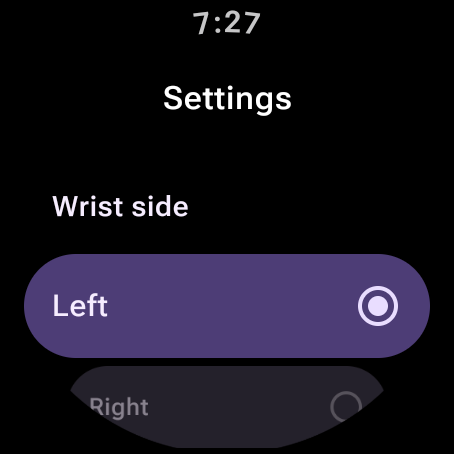
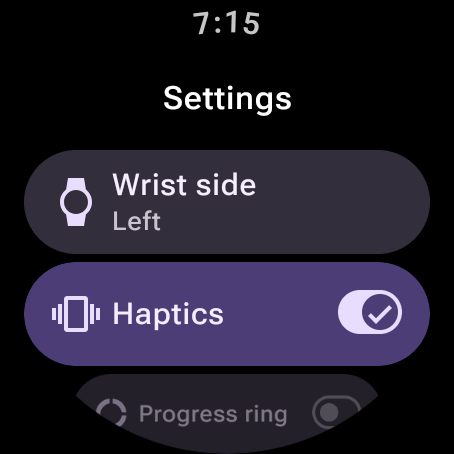
feat(ui): EdgeButton Start, one-screen Settings, Tile to match
Start is rebuilt on Wear Material 3's EdgeButton: Start wash hugs the bottom curve, as on the Tile, with the last Wash's takeaway ("Last wash · 7:15 AM / n of 5 look covered") and the History and Settings icon buttons centred above it. The list stays short so the EdgeButton shows at full size without scrolling. The pill and its press-shape constants are gone.

Settings fits on one screen: Wrist side is one row showing its value, flipped by a tap; Haptics and Progress ring gain icons; "Applies from the next wash" shows only while a Wash runs. The Tile uses Start's words and hierarchy and refreshes hourly so the time turns into a date. Settings and History can scroll their last row to the centre of the screen, like the watch's own Settings.

Screenshots retaken; the replaced ones are kept as docs/ux/old_*.png.

diff --git a/wear/src/main/java/com/hapticwash/ui/MainActivity.kt b/wear/src/main/java/com/hapticwash/ui/MainActivity.kt
@@ -18,13 +18,11 @@ import androidx.compose.animation.core.CubicBezierEasing
 import androidx.compose.animation.core.LinearEasing
 import androidx.compose.animation.core.Spring
 import androidx.compose.animation.core.animateFloatAsState
-import androidx.compose.animation.core.animateIntAsState
 import androidx.compose.animation.core.spring
 import androidx.compose.animation.core.tween
 import androidx.compose.foundation.interaction.MutableInteractionSource
 import androidx.compose.foundation.interaction.collectIsPressedAsState
 import androidx.compose.foundation.Canvas
-import androidx.compose.foundation.shape.RoundedCornerShape
 import androidx.compose.foundation.layout.height
 import androidx.compose.foundation.layout.size
 import androidx.compose.ui.geometry.Offset
@@ -33,12 +31,13 @@ import androidx.compose.ui.graphics.StrokeCap
 import androidx.compose.ui.graphics.drawscope.Stroke
 import androidx.compose.ui.res.painterResource
 import androidx.compose.ui.semantics.contentDescription
-import androidx.wear.compose.material3.FilledTonalIconButton
 import androidx.wear.compose.material3.Icon
-import androidx.wear.compose.material3.IconButtonDefaults
 import com.hapticwash.session.StepCoverage
 import androidx.compose.foundation.layout.Arrangement
 import androidx.compose.foundation.layout.Box
+import androidx.compose.foundation.layout.PaddingValues
+import androidx.compose.foundation.layout.calculateEndPadding
+import androidx.compose.foundation.layout.calculateStartPadding
 import androidx.compose.foundation.layout.Column
 import androidx.compose.foundation.layout.Row
 import androidx.compose.foundation.layout.fillMaxSize
@@ -61,6 +60,8 @@ import androidx.compose.ui.Modifier
 import androidx.compose.ui.graphics.graphicsLayer
 import androidx.compose.ui.platform.LocalContext
 import androidx.compose.ui.platform.LocalDensity
+import androidx.compose.ui.platform.LocalWindowInfo
+import androidx.compose.ui.unit.LayoutDirection
 import androidx.compose.ui.res.stringArrayResource
 import androidx.compose.ui.res.stringResource
 import androidx.compose.ui.semantics.clearAndSetSemantics
@@ -74,14 +75,16 @@ import androidx.wear.compose.foundation.lazy.items
 import androidx.wear.compose.foundation.lazy.rememberTransformingLazyColumnState
 import androidx.wear.compose.material3.AppScaffold
 import androidx.wear.compose.material3.Button
+import androidx.wear.compose.material3.EdgeButton
+import androidx.wear.compose.material3.EdgeButtonSize
 import androidx.wear.compose.material3.CircularProgressIndicator
 import androidx.wear.compose.material3.CircularProgressIndicatorDefaults
 import androidx.wear.compose.material3.FilledTonalButton
+import androidx.wear.compose.material3.FilledTonalIconButton
+import androidx.wear.compose.material3.IconButtonDefaults
 import androidx.wear.compose.material3.ListHeader
-import androidx.wear.compose.material3.ListSubHeader
 import androidx.wear.compose.material3.MaterialTheme
 import androidx.wear.compose.material3.ProgressIndicatorDefaults
-import androidx.wear.compose.material3.RadioButton
 import androidx.wear.compose.material3.ScreenScaffold
 import androidx.wear.compose.material3.SurfaceTransformation
 import androidx.wear.compose.material3.SwitchButton
@@ -115,11 +118,8 @@ private const val ROW_MS = 200f
 private const val STAGGER_MS = 40f
 private const val ENTRANCE_MS = 360 // ROW_MS + 4 × STAGGER_MS, for five rows
 
-/** Start wash: the one large target on the Start screen, a pill whose corners tighten while pressed. */
-private val START_HEIGHT = 76.dp
-private val START_HEIGHT_COMPACT = 64.dp
-private const val START_CORNER_PCT = 50
-private const val START_CORNER_PRESSED_PCT = 30
+/** Half a list button's 52 dp, so [ListScreen] can centre the last row. */
+private val ROW_HALF_HEIGHT = 26.dp
 
 /** Summary ring: diameter, stroke, and the gap between Step arcs. */
 private val RING_SIZE = 124.dp
@@ -182,11 +182,21 @@ fun App(startRequests: Int = 0) {
 
 /** A scrollable, round-safe screen with [TimeText][AppScaffold] on top. Items shrink and fade at the round edge via [spec]. */
 @Composable
-private fun ListScreen(content: TransformingLazyColumnScope.(spec: TransformationSpec) -> Unit) {
+private fun ListScreen(endAtCentre: Boolean = false, content: TransformingLazyColumnScope.(spec: TransformationSpec) -> Unit) {
     val state = rememberTransformingLazyColumnState()
     val spec = rememberTransformationSpec()
+    // Like the watch's own Settings: the last row can scroll up to the middle of the screen, with black below it.
+    val centre = with(LocalDensity.current) { LocalWindowInfo.current.containerSize.height.toDp() / 2 } - ROW_HALF_HEIGHT
     ScreenScaffold(state) { padding ->
-        TransformingLazyColumn(state = state, contentPadding = padding) { content(spec) }
+        TransformingLazyColumn(
+            state = state,
+            contentPadding = if (endAtCentre) PaddingValues(
+                start = padding.calculateStartPadding(LayoutDirection.Ltr),
+                top = padding.calculateTopPadding(),
+                end = padding.calculateEndPadding(LayoutDirection.Ltr),
+                bottom = centre,
+            ) else padding,
+        ) { content(spec) }
     }
 }
 
@@ -202,6 +212,7 @@ private fun TransformingLazyColumnItemScope.morphContent(spec: TransformationSpe
 private fun StartScreen(onWash: () -> Unit, onHistory: () -> Unit, onSettings: () -> Unit, autoStart: Boolean, onAutoStarted: () -> Unit) {
     val context = LocalContext.current
     val status by WashService.status.collectAsState()
+    val washes by remember { History.get(context).washes }.collectAsState()
     var timerOnly by remember { mutableStateOf(false) }
     fun begin() {
         if (!status.running) WashService.start(context)
@@ -223,33 +234,39 @@ private fun StartScreen(onWash: () -> Unit, onHistory: () -> Unit, onSettings: (
         // Loads the model off the main thread; also the release smoke check's log line.
         timerOnly = withContext(Dispatchers.Default) { StepModel.bundled(context) == null }
     }
-    val press = remember { MutableInteractionSource() }
-    val pressed by press.collectIsPressedAsState()
-    // Material 3 Expressive press feedback: the pill's corners tighten under the finger and spring back.
-    val corner by animateIntAsState(if (pressed) START_CORNER_PRESSED_PCT else START_CORNER_PCT, spring(dampingRatio = 1f, stiffness = Spring.StiffnessMedium))
-    // One thing to do here, so one large target; History and Settings are rarely needed and stay small.
-    ScreenScaffold { padding ->
-        Column(
-            Modifier.fillMaxSize().padding(padding),
-            verticalArrangement = Arrangement.spacedBy(8.dp, Alignment.CenterVertically),
-            horizontalAlignment = Alignment.CenterHorizontally,
-        ) {
-            Button(
-                onClick = ::start,
-                // Shorter in Timer-only, so the notice fits without squeezing the 48 dp icon buttons (§4.1.3).
-                modifier = Modifier.fillMaxWidth(0.8f).height(if (timerOnly) START_HEIGHT_COMPACT else START_HEIGHT),
-                shape = RoundedCornerShape(corner),
-                interactionSource = press,
-            ) {
-                Row(Modifier.fillMaxWidth(), horizontalArrangement = Arrangement.spacedBy(8.dp, Alignment.CenterHorizontally), verticalAlignment = Alignment.CenterVertically) {
-                    Icon(painterResource(R.drawable.ic_wash), contentDescription = null)
-                    Text(stringResource(if (status.running) R.string.session_running else R.string.start_wash), style = MaterialTheme.typography.titleMedium)
+    val state = rememberTransformingLazyColumnState()
+    val spec = rememberTransformationSpec()
+    // The one primary action hugs the bottom curve, where the Tile puts it too, so app and Tile read as one (§4.1.3).
+    ScreenScaffold(state, edgeButton = {
+        EdgeButton(::start, buttonSize = EdgeButtonSize.Medium) {
+            Text(stringResource(if (status.running) R.string.session_running else R.string.start_wash))
+        }
+    }) { padding ->
+        // Short enough to fit above the full-size EdgeButton: a longer list would shrink it until scrolled (§4.1.4).
+        TransformingLazyColumn(state = state, contentPadding = padding, verticalArrangement = Arrangement.spacedBy(4.dp, Alignment.CenterVertically)) {
+            // The last takeaway in the Tile's words, so the screen says something at a glance. Weight and size make the hierarchy, not a container.
+            item {
+                val last = washes.firstOrNull()
+                Column(morphContent(spec).semantics(mergeDescendants = true) {}, horizontalAlignment = Alignment.CenterHorizontally) {
+                    if (last != null) Text(
+                        lastWashLabel(context, last),
+                        color = MaterialTheme.colorScheme.onSurfaceVariant,
+                        style = MaterialTheme.typography.labelSmall,
+                    )
+                    Text(
+                        last?.let { hint(context.resources, it) } ?: stringResource(R.string.history_empty),
+                        style = MaterialTheme.typography.titleMedium,
+                        textAlign = TextAlign.Center,
+                    )
+                    if (timerOnly) Text(stringResource(R.string.timer_only_short), color = MaterialTheme.colorScheme.onSurfaceVariant, style = MaterialTheme.typography.labelSmall)
                 }
             }
-            if (timerOnly) Notice(stringResource(R.string.timer_only_short))
-            Row(horizontalArrangement = Arrangement.spacedBy(12.dp)) {
-                FilledTonalIconButton(onHistory, shapes = IconButtonDefaults.animatedShapes()) { Icon(painterResource(R.drawable.ic_history), stringResource(R.string.history)) }
-                FilledTonalIconButton(onSettings, shapes = IconButtonDefaults.animatedShapes()) { Icon(painterResource(R.drawable.ic_settings), stringResource(R.string.settings)) }
+            // Rarely needed, so small and secondary to the EdgeButton; 48 dp targets (§4.1.3).
+            item {
+                Row(morphContent(spec).padding(top = 4.dp), horizontalArrangement = Arrangement.spacedBy(12.dp, Alignment.CenterHorizontally)) {
+                    FilledTonalIconButton(onHistory, Modifier.size(48.dp), shapes = IconButtonDefaults.animatedShapes()) { Icon(painterResource(R.drawable.ic_history), stringResource(R.string.history)) }
+                    FilledTonalIconButton(onSettings, Modifier.size(48.dp), shapes = IconButtonDefaults.animatedShapes()) { Icon(painterResource(R.drawable.ic_settings), stringResource(R.string.settings)) }
+                }
             }
         }
     }
@@ -374,7 +391,7 @@ private fun SummaryScreen(id: Long?) {
 private fun HistoryScreen(onOpen: (Long) -> Unit) {
     val context = LocalContext.current
     val washes by remember { History.get(context).washes }.collectAsState()
-    ListScreen { spec ->
+    ListScreen(endAtCentre = true) { spec ->
         item { ListHeader { Text(stringResource(R.string.history)) } }
         if (washes.isEmpty()) item { Notice(stringResource(R.string.history_empty), morphContent(spec)) }
         items(washes) { w ->
@@ -393,35 +410,38 @@ private fun HistoryScreen(onOpen: (Long) -> Unit) {
 private fun SettingsScreen() {
     val context = LocalContext.current
     val settings = remember { Settings(context) }
+    val status by WashService.status.collectAsState()
     var wrist by remember { mutableStateOf(settings.wrist) }
     var haptics by remember { mutableStateOf(settings.haptics) }
     var ring by remember { mutableStateOf(settings.progressRing) }
-    ListScreen { spec ->
+    // Three settings, three rows, one screen: each row names the setting, and its current value, with an icon to scan by.
+    ListScreen(endAtCentre = true) { spec ->
         item { ListHeader { Text(stringResource(R.string.settings)) } }
-        // Two visible options, no dialog (§4.1.5). Read at Wash start, so a change applies from the next Wash.
-        item { ListSubHeader(morph(spec), transformation = SurfaceTransformation(spec)) { Text(stringResource(R.string.wrist_side)) } }
-        for ((side, name) in listOf(Wrist.LEFT to R.string.wrist_left, Wrist.RIGHT to R.string.wrist_right)) {
-            item {
-                RadioButton(
-                    selected = wrist == side,
-                    onSelect = { wrist = side; settings.wrist = side },
-                    modifier = morph(spec),
-                    transformation = SurfaceTransformation(spec),
-                    label = { Text(stringResource(name)) },
-                )
-            }
-        }
-        item { Notice(stringResource(R.string.applies_next_wash), morphContent(spec)) }
+        // Two values, so a tap flips it and the row shows the new one: no dialog, and a second tap undoes it (§4.1.5).
         item {
-            SwitchButton(haptics, { haptics = it; settings.haptics = it }, morph(spec), transformation = SurfaceTransformation(spec), label = { Text(stringResource(R.string.haptics)) })
+            FilledTonalButton(
+                onClick = { wrist = if (wrist == Wrist.LEFT) Wrist.RIGHT else Wrist.LEFT; settings.wrist = wrist },
+                modifier = morph(spec),
+                transformation = SurfaceTransformation(spec),
+                icon = { Icon(painterResource(R.drawable.ic_watch), contentDescription = null) },
+                label = { Text(stringResource(R.string.wrist_side)) },
+                secondaryLabel = { Text(stringResource(if (wrist == Wrist.LEFT) R.string.wrist_left else R.string.wrist_right)) },
+            )
         }
         item {
-            SwitchButton(ring, { ring = it; settings.progressRing = it }, morph(spec), transformation = SurfaceTransformation(spec), label = { Text(stringResource(R.string.progress_ring)) })
+            SwitchButton(haptics, { haptics = it; settings.haptics = it }, morph(spec), transformation = SurfaceTransformation(spec),
+                icon = { Icon(painterResource(R.drawable.ic_vibration), contentDescription = null) }, label = { Text(stringResource(R.string.haptics)) })
         }
+        item {
+            SwitchButton(ring, { ring = it; settings.progressRing = it }, morph(spec), transformation = SurfaceTransformation(spec),
+                icon = { Icon(painterResource(R.drawable.ic_ring), contentDescription = null) }, label = { Text(stringResource(R.string.progress_ring)) })
+        }
+        // Only said when it matters: Wrist side and the ring are read at Wash start.
+        if (status.running) item { Notice(stringResource(R.string.applies_next_wash), morphContent(spec)) }
     }
 }
 
-/** Press feedback for Start and Stop: a slight, critically damped shrink while the finger is down. */
+/** Press feedback for Stop: a slight, critically damped shrink while the finger is down. */
 @Composable
 private fun rememberPressScale(): Pair<MutableInteractionSource, Modifier> {
     val source = remember { MutableInteractionSource() }
@@ -480,6 +500,10 @@ internal fun hint(res: Resources, w: WashSession): String = when {
     !w.coverageShown -> res.getString(R.string.too_short_short)
     else -> res.getString(R.string.history_hint, w.coverage.count { it.status == StepStatus.OK })
 }
+
+/** "Last wash · 7:15 AM", or the date once it is not today. Start and the Tile. */
+internal fun lastWashLabel(context: Context, w: WashSession) =
+    "${context.getString(R.string.last_wash_title)} · ${DateUtils.getRelativeTimeSpanString(context, w.startedAtEpochMs)}"
 
 private fun duration(s: Float): String {
     val t = s.toInt()

diff --git a/wear/src/main/java/com/hapticwash/ui/WashTileService.kt b/wear/src/main/java/com/hapticwash/ui/WashTileService.kt
@@ -3,6 +3,7 @@ package com.hapticwash.ui
 import android.content.ComponentName
 import androidx.wear.protolayout.ActionBuilders.booleanExtra
 import androidx.wear.protolayout.ActionBuilders.launchAction
+import androidx.wear.protolayout.LayoutElementBuilders.Column
 import androidx.wear.protolayout.material3.MaterialScope
 import androidx.wear.protolayout.material3.Typography
 import androidx.wear.protolayout.material3.primaryLayout
@@ -17,6 +18,7 @@ import androidx.wear.tiles.timeline
 import androidx.wear.tiles.timelineEntry
 import com.hapticwash.R
 import com.hapticwash.session.History
+import kotlin.time.Duration.Companion.hours
 
 /** Start a Wash from the Tile carousel, with the last Wash's takeaway. WashService refreshes it when a Wash is saved. */
 class WashTileService : Material3TileService() {
@@ -25,13 +27,15 @@ class WashTileService : Material3TileService() {
             timelineEntry(
                 primaryLayout(
                     titleSlot = { text(getString(R.string.app_name).layoutString) },
+                    // Start's words and hierarchy: a small grey label over the takeaway, so the Tile and the app read as one.
                     mainSlot = {
                         val last = History.get(this@WashTileService).read().firstOrNull()
-                        text(
-                            (last?.let { getString(R.string.last_wash, hint(resources, it)) } ?: getString(R.string.history_empty)).layoutString,
-                            typography = Typography.BODY_MEDIUM,
-                            maxLines = 2,
-                        )
+                        val takeaway = text((last?.let { hint(resources, it) } ?: getString(R.string.history_empty)).layoutString, typography = Typography.TITLE_MEDIUM, color = colorScheme.onSurface, maxLines = 2)
+                        if (last == null) takeaway
+                        else Column.Builder()
+                            .addContent(text(lastWashLabel(this@WashTileService, last).layoutString, typography = Typography.LABEL_SMALL, color = colorScheme.onSurfaceVariant))
+                            .addContent(takeaway)
+                            .build()
                     },
                     bottomSlot = {
                         textEdgeButton(
@@ -47,5 +51,7 @@ class WashTileService : Material3TileService() {
                 ),
             ),
         ),
+        // Hourly, so "7:15 AM" turns into a date once the Wash is not from today.
+        1.hours,
     )
 }
